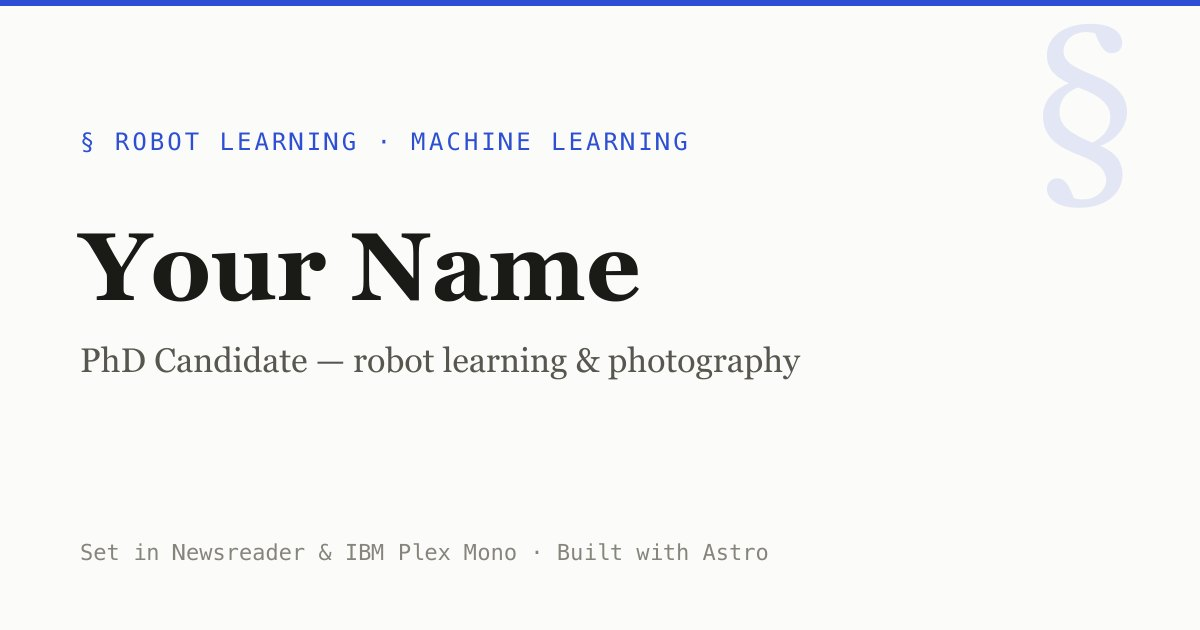
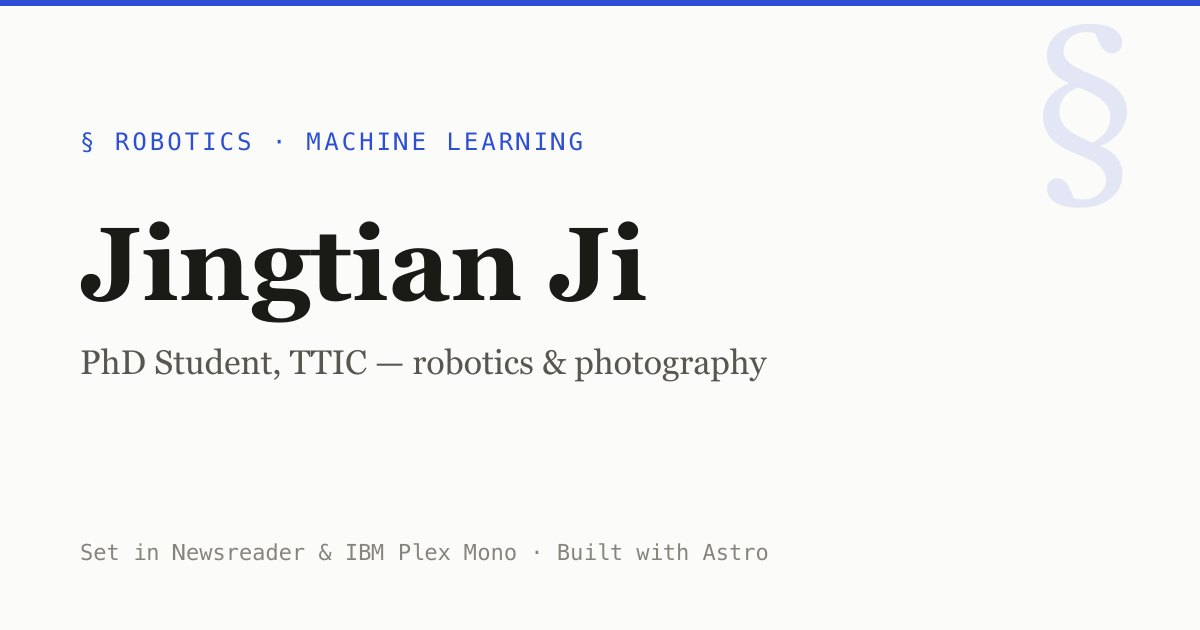
content: fill in real identity (Jingtian Ji, TTIC, advisor M. Walter, scholar/github/email)

Changed region(s): [[0.0617, 0.3317, 0.555, 0.5127], [0.0617, 0.5429, 0.6783, 0.6032], [0.1542, 0.2111, 0.5858, 0.2413]]

diff --git a/src/data/site.ts b/src/data/site.ts
@@ -22,8 +22,10 @@ export interface SiteConfig {
   role: string;
   field: string;
   university: string;
+  universityUrl?: string;
   lab?: string;
   advisor?: string;
+  advisorUrl?: string;
   location?: string;
   /** Honest status line (e.g. "Seeking summer 2026 internships"). "" hides it. */
   now: string;
@@ -54,30 +56,32 @@ const features: SiteConfig["features"] = {
 };
 
 export const site: SiteConfig = {
-  name: "Your Name", // EDIT ME
-  shortName: "Y. Name", // EDIT ME — masthead wordmark
+  name: "Jingtian Ji",
+  shortName: "Jingtian Ji", // masthead wordmark
   tagline:
-    "I teach robots to learn from interaction — turning messy real-world data into behavior you can trust.", // EDIT ME
+    "Robotics and machine learning — teaching robots to perceive, understand, and act in the real world.", // TODO: replace with your own one-line thesis
   description:
-    "Robotics + Machine Learning PhD student. Research in robot learning, and a photographer.",
-  role: "PhD Candidate",
-  field: "Robot Learning · Machine Learning",
-  university: "Your University", // EDIT ME
-  lab: "Your Lab", // EDIT ME (optional)
-  advisor: "Prof. Advisor Name", // EDIT ME (optional)
-  location: "City, State", // EDIT ME (optional)
-  now: "Seeking summer 2026 internships", // EDIT ME — or set to "" to hide
-  email: "you@university.edu", // EDIT ME
+    "Jingtian Ji — PhD student in robotics and machine learning at the Toyota Technological Institute at Chicago (TTIC), advised by Matthew R. Walter.",
+  role: "PhD Student",
+  field: "Robotics · Machine Learning",
+  university: "Toyota Technological Institute at Chicago",
+  universityUrl: "https://www.ttic.edu/",
+  lab: "Robot Intelligence through Perception Lab (RIPL)",
+  advisor: "Matthew R. Walter",
+  advisorUrl: "https://home.ttic.edu/~mwalter/",
+  location: "Chicago, IL",
+  now: "", // set a short status to show it on the hero (e.g. "Seeking summer 2026 internships")
+  email: "jijingtian@ttic.edu",
 
   socials: {
-    scholar: "https://scholar.google.com/citations?user=XXXX", // EDIT ME
-    github: "https://github.com/yourhandle", // EDIT ME
-    linkedin: "https://www.linkedin.com/in/yourhandle", // EDIT ME
-    // twitter: "https://x.com/yourhandle",
+    scholar: "https://scholar.google.com/citations?user=DeQM4Z4AAAAJ&hl=en",
+    github: "https://github.com/LucienJi",
+    // linkedin: "https://www.linkedin.com/in/...", // add when you have one
+    // twitter: "https://x.com/...",
     // orcid: "https://orcid.org/0000-0000-0000-0000",
   },
 
-  cvPdf: "/cv.pdf", // place the file at public/cv.pdf
+  cvPdf: "/cv.pdf", // replace public/cv.pdf with your real CV
   url: "https://lucienji.github.io", // GitHub Pages user site
 
   nav: [
